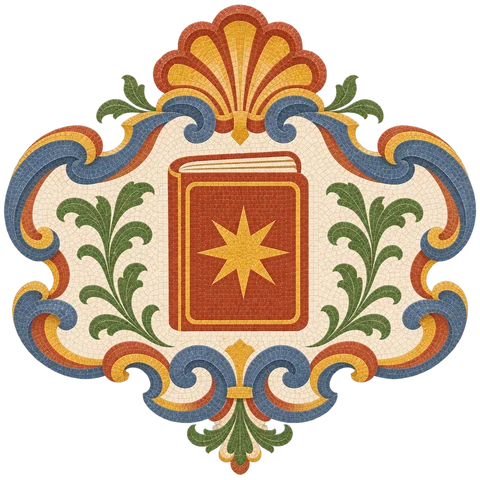
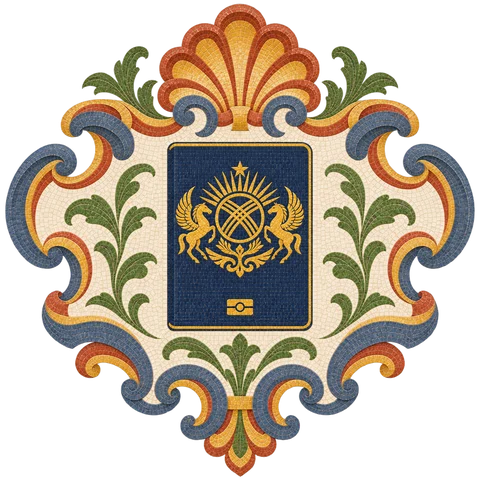
Vespi coin, Kazakhstan passport, family cameo, road marks and doc check (#241)
From the owner's notes on phone screenshots:

- Visa D shows the passport of Kazakhstan («изобрази именно что паспорт
  Казахстана»): navy cover, golden state emblem and chip symbol, no
  writing; it also serves the visa point about the passport.
- DSU and ISEEU: Vespi minted on one large thin coin with a laurel rim
  («отчекань на монетах самого Веспи»), from the Vespi master generation.
- Family documents: an oval cameo with the profiles of a family over a
  sealed certificate («справки о семье переработай»).
- The document-check upload zone shows the doc-check cartouche (a scroll,
  a magnifying glass and a check) instead of the felt folder; ObjectIcon
  is no longer used and goes.
- The guide road no longer looks unfinished («сыровато»): open stops hold
  a muted rosette of four tesserae, the next stop is a paper circle with a
  terracotta ring, the line is laid in short tesserae, the header counts
  once. No numerals (owner, 4 Nov). The 3D landmarks stay («вот этот стайл
  именно на карте прогресса норм»); the cabinet road is unchanged.

Claude-Session: https://claude.ai/code/session_01EJf3uoJW8TN46ucPCkbbdr

diff --git a/src/components/guides/GuideRoad.tsx b/src/components/guides/GuideRoad.tsx
@@ -13,8 +13,8 @@ import local from "./guide-road.module.css";
    (portal-path.module.css): медальоны по змейке, остановки-станции с
    предметом, линия по реальным центрам остановок, макеты Италии в карманах
    изгиба. Смысл — чтение: прочитано — зелёный с галочкой, «читать дальше» —
-   крупный терракотовый со звездой (один на дорогу), открыто — бумажный с
-   точкой, закрыто до оплаты — замок. Полоса сверху — сколько прочитано из
+   крупный, с терракотовым кольцом и цветной смальтой (один на дорогу),
+   открыто — бумажный с приглушённой смальтой, закрыто до оплаты — замок. Полоса сверху — сколько прочитано из
    открытого. Устройство с оплаченным кабинетом видит всё без замков.
    Змейка, линия и пейзаж повторяют PortalRoad.tsx (кабинет): меняешь там —
    сверь здесь. */
@@ -36,9 +36,21 @@ const outside = (i: number): "left" | "right" => Math.sin(2 * Math.PI * (i + 0.5
 type NodeState = "done" | "current" | "todo" | "locked";
 function NodeMark({ state }: { state: NodeState }) {
   if (state === "done") return <svg viewBox="0 0 24 24" aria-hidden="true" data-mark="done"><path d="m6 12.6 3.9 3.9L18.2 8" /></svg>;
-  if (state === "current") return <svg viewBox="0 0 24 24" aria-hidden="true" data-mark="current"><path d="m12 4.4 2.25 4.6 5.05.72-3.65 3.57.86 5.04L12 15.95l-4.51 2.38.86-5.04L4.7 9.72l5.05-.73Z" /></svg>;
   if (state === "locked") return <svg viewBox="0 0 24 24" aria-hidden="true" data-mark="locked"><rect x="6.5" y="10.8" width="11" height="8.4" rx="2.1" /><path d="M9 10.8V8.9a3 3 0 0 1 6 0v1.9" /></svg>;
-  return <span className={styles.nodeDot} aria-hidden="true" />;
+  return <Tesserae />;
+}
+
+/* Четыре кусочка смальты ромбом — знак остановки, которую ещё читать
+   (owner, 19 Nov: дорога «чуть будто бы недоделанная, сыровато»; пустой
+   кружок с серой точкой читался как незаполненное гнездо). Цифр нет:
+   owner, 4 Nov — без «Шаг 01» и крупных номеров. */
+function Tesserae() {
+  return <svg viewBox="0 0 24 24" aria-hidden="true" data-mark="tesserae">
+    <path d="M12 1.8 16.8 6.6 12 11.4 7.2 6.6Z" fill="#B83A27" />
+    <path d="M17.4 7.2 22.2 12 17.4 16.8 12.6 12Z" fill="#D9A441" />
+    <path d="M12 12.6 16.8 17.4 12 22.2 7.2 17.4Z" fill="#6E5644" />
+    <path d="M6.6 7.2 11.4 12 6.6 16.8 1.8 12Z" fill="#5E7F3E" />
+  </svg>;
 }
 
 const reachedPoint = (state: string) => state === "done" || state === "current" || state === "station-done" || state === "station-current";
@@ -76,7 +88,9 @@ function useRouteLine(wrap: RefObject<HTMLDivElement | null>, line: RefObject<SV
 
 /* Те же макеты Италии, что вдоль дороги кабинета (scenery-2026-11-07.json):
    в кармане изгиба, не чаще чем раз в три остановки; рядом с закрытым — серые.
-   Макеты с Веспи чередуются с местами, двух подряд нет. */
+   Макеты с Веспи чередуются с местами, двух подряд нет. Owner, 19 Nov, о
+   мозаичных видах вместо них: «Нет, вот этот стайл именно на карте
+   прогресса норм» — объёмные макеты остаются. */
 const SCENERY = [
   { name: "colosseum", width: 560, height: 401 },
   { name: "vespi-map", width: 560, height: 459 },
@@ -129,7 +143,6 @@ export function GuideRoad({ id, heading, stations, showStations = true, scenery 
   const openKeys = [...new Set(steps.flatMap(step => step.openKeys))];
   const available = allKeys;
   const readCount = available.filter(key => read.has(key)).length;
-  const percent = available.length ? Math.round(readCount / available.length * 100) : 0;
   const caption = paid ? "всё открыто: на этом устройстве выполнен вход в кабинет"
     : openKeys.length === 0 ? "разбор этой темы — с маршрутом"
     : openKeys.length < allKeys.length ? `открыто ${openKeys.length}, ещё ${allKeys.length - openKeys.length} — с маршрутом` : "";
@@ -144,9 +157,10 @@ export function GuideRoad({ id, heading, stations, showStations = true, scenery 
   return <section className={`${styles.path} ${local.guideRoad}`} style={{ ...ROAD_VARS, "--route-fill": available.length ? readCount / available.length : 0 } as CSSProperties}
     data-guide-road={id} aria-labelledby={`${id}-road-heading`}>
     <div className={styles.head}>
+      {/* Owner, 19 Nov («сыровато»): «0%», «0 из 5» и полоса говорили одно и
+          то же трижды — остались счёт и полоса. */}
       <div className={styles.headTop}>
         <h2 id={`${id}-road-heading`}>{heading}</h2>
-        <p className={styles.percent} aria-hidden="true"><strong>{percent}%</strong><span>прочитано</span></p>
       </div>
       <p className={styles.count} data-road-count>Прочитано <strong>{readCount}</strong> из {available.length}{caption && <span className={styles.ahead} data-path-caption> · {caption}</span>}</p>
       <div className={styles.meter} aria-hidden="true"><div className={styles.rail}>

diff --git a/src/components/plan/DocCheck.tsx b/src/components/plan/DocCheck.tsx
@@ -1,6 +1,7 @@
 "use client";
+/* eslint-disable @next/next/no-img-element -- Local pre-sized WebP art for the static export. */
 
-import { ObjectIcon } from "@/components/icons/ObjectIcon";
+import { cartoucheFrame } from "@/components/guides/guideArt";
 import { documentOutcome } from "@/lib/portalDocument";
 
 import { useEffect, useId, useRef, useState } from "react";
@@ -24,6 +25,7 @@ import portalStyles from "@/components/portal/portal-document.module.css";
 import styles from "./plan-workspace.module.css";
 import disclosure from "@/components/ui/disclosure.module.css";
 
+const DOC_CHECK_ART = cartoucheFrame("doc-check");
 const MARK: Record<string, string> = { ok: "✓", warn: "!", error: "✕", unknown: "?" };
 const LABEL: Record<string, string> = {
   ok: "Видимых ошибок нет",
@@ -303,14 +305,15 @@ export function DocCheck({ onComplete, academicYear, portalInspector = false, in
             disabled={state.step === "reading" || unavailable || availabilityPending}
             onChange={(e) => accept(e.target.files?.[0])}
           />
-          <ObjectIcon name="folder-quiet" size={60} />
+          {/* Owner, 19 Nov: войлочная папка «чуть страшновата» — тот же
+              мозаичный картуш, что у тем гайдов: свиток с лупой и галочкой. */}
+          <img src={DOC_CHECK_ART.src} srcSet={DOC_CHECK_ART.srcSet} sizes="88px" width={88} height={88} alt="" aria-hidden="true" loading="lazy" decoding="async" draggable={false} data-doc-check-art />
           <b className={styles.fileAction}>Выбрать документ</b>
           <small>или перетащи сюда<br />{portalInspector ? "PDF, DOCX, TXT, RTF до 5 МБ. Фото сжимаются автоматически." : "Фото, PDF, Word до 5 МБ"}</small>
         </label>
       ) : (
         <div className="mt-5 flex items-start gap-3 rounded-[20px] border border-white/15 p-4 sm:items-center sm:gap-4">
           {preview ? (
-            // eslint-disable-next-line @next/next/no-img-element
             <img
               src={preview}
               alt="документ"

diff --git a/src/components/guides/guide-road.module.css b/src/components/guides/guide-road.module.css
@@ -14,3 +14,17 @@
   .guideRoad [data-road-status] { flex-wrap:nowrap; white-space:nowrap; }
   .tail { height:40px; }
 }
+
+/* Owner, 19 Nov: дорога «чуть будто бы недоделанная, сыровато». Разбор
+   (design critique): пустые кружки с серой точкой читались как гнёзда без
+   содержимого, текущий шаг — красный шар со звездой из другой, игровой
+   стилистики, пунктир был бледной россыпью. Теперь остановка несёт смальту
+   (Tesserae в GuideRoad.tsx), текущая — та же бумага с терракотовым кольцом,
+   а линия выложена прямоугольными кусочками, как пол Галереи. */
+.guideRoad [data-road-line] path { stroke:#D9CBB6; stroke-width:6px; stroke-linecap:butt; stroke-dasharray:7 5; }
+.guideRoad [data-road-line] path[data-state=walked] { stroke:#3A8560; stroke-dasharray:none; stroke-linecap:round; }
+.guideRoad [data-road-line] path[data-state=later] { stroke:#E9E0D3; }
+.guideRoad [data-node-state] [data-road-point] svg[data-mark=tesserae] { width:44%; height:44%; }
+.guideRoad [data-node-state=todo] [data-road-point] svg[data-mark=tesserae] { filter:saturate(.35); opacity:.7; }
+.guideRoad [data-node-state=current] [data-road-point] { --size:calc(var(--node) + 8px); --rim:#B83A27; background:#FFFDF9; color:#B83A27; box-shadow:inset 0 0 0 3px var(--rim),0 10px 18px -12px rgba(120,40,24,.55); }
+.guideRoad [data-node-state=current] [data-road-point] svg[data-mark=tesserae] { width:50%; height:50%; }

diff --git a/src/components/guides/guideArt.ts b/src/components/guides/guideArt.ts
@@ -25,7 +25,12 @@
    только крупный: шапка темы, плитка каталога, пункт визы. Метки на пути
    (56px) остаются предметами общего набора. Плоская классическая эмблема
    темы в барочном картуше из мраморной смальты,
-   design/illustrations/cartouche-2026-11-19.json.
+   design/illustrations/cartouche-2026-11-19.json. Owner, 19 Nov (о плитках
+   каталога): монеты DSU «слишком по-яичному… более утончённым», у справок
+   семьи вместо колонн — другое. Затем: «отчекань на монетах самого Веспи»,
+   «на визу D изобрази именно что паспорт Казахстана», «справки о семье
+   переработай» — монета с Веспи, тёмно-синий паспорт с гербом Казахстана
+   (он же у пункта визы о паспорте), камея с профилями семьи над свитком.
    Главная, кабинет и план оставляют общий набор предметов (objectFrame).
    Картинки декоративные (alt=""): смысл несут заголовок и тизер темы. */
 const ART: Record<string, string> = {

diff --git a/src/components/plan/plan-workspace.module.css b/src/components/plan/plan-workspace.module.css
@@ -100,7 +100,7 @@
 @media (hover: hover) and (pointer: fine) { .dropzone:hover { background:var(--color-coral-soft); } }
 .dropzone:focus-within { outline:2px solid var(--color-ink); outline-offset:4px; }
 /* Папка тише (owner, 8 Nov): приглушённый рендер, без тени, чуть прозрачнее. */
-.dropzone > img { margin-bottom:4px; opacity:.85; }
+.dropzone > img { margin-bottom:4px; }
 .fileAction { display:inline-flex; align-items:center; justify-content:center; min-height:46px; padding:11px 22px; border-radius:999px; background:var(--color-ink); color:white; font-size:14px; font-weight:600; }
 .dropzone:has(input:disabled) { cursor:wait; }
 .dropzone:has(input:disabled) .fileAction { background:var(--color-warm-stone); color:var(--color-cloud-body); }

diff --git a/DESIGN.md b/DESIGN.md
@@ -2130,3 +2130,42 @@ followed:
   shared object set (`objectFrame`). The guides use `cartoucheFrame` in
   `src/components/guides/guideArt.ts`: square, 480 px with a 240 px copy.
 - Manifest: design/illustrations/cartouche-2026-11-19.json.
+
+## Sharper topic cartouches and a finished guide road · 19 November 2026
+
+Notes from the owner, on phone screenshots of the catalogue tiles, a guide
+road and the document check:
+
+- **Cartouches.**
+  - Visa D: first «флаг конкретный Казахстана», then «изобрази именно что
+    паспорт Казахстана». The emblem is the Kazakhstan passport: navy cover
+    with the golden state emblem and the chip symbol, no writing. The same
+    picture serves the visa point about the passport.
+  - DSU and ISEEU: the coins looked «слишком по-яичному» («более
+    утончённым»), then «отчекань на монетах самого Веспи». Vespi is minted
+    on one large thin coin with a laurel rim, with two coins behind it.
+  - Family documents: the two «странные» columns, then «справки о семье
+    переработай». The emblem is an oval cameo with the profiles of a family
+    over a sealed certificate.
+- **The upload zone of the document check.** The felt folder («чуть
+  страшновата») became the doc-check cartouche: a scroll, a magnifying
+  glass and a check. It is shown at 88 px, at full colour, in the plan and
+  in the cabinet.
+- **The guide road** («чуть будто бы недоделанная, сыровато»; reviewed with
+  a design critique).
+  - Each open stop now holds four tesserae as a small rosette, muted.
+    Before, an empty paper circle with a grey dot read as an unfilled
+    socket.
+  - The stop to read next is the same paper circle with a terracotta ring
+    and the rosette in full colour, not a red ball with a star. The «Начни
+    здесь» chip stays.
+  - No numerals in the circles (owner, 4 Nov).
+  - The line is laid in short rectangular tesserae (7 px with 5 px gaps)
+    instead of pale round dots; the part already read is still solid green.
+  - The header says the count once: «Прочитано 0 из 5» and the bar; the big
+    percentage repeated it.
+  - The landmarks beside the road stay the 3D models. Flat mosaic
+    vignettes were tried, and the owner kept the models: «Нет, вот этот
+    стайл именно на карте прогресса норм».
+  - The cabinet road keeps its own look.
+- Manifest: design/illustrations/cartouche-2026-11-19.json.
